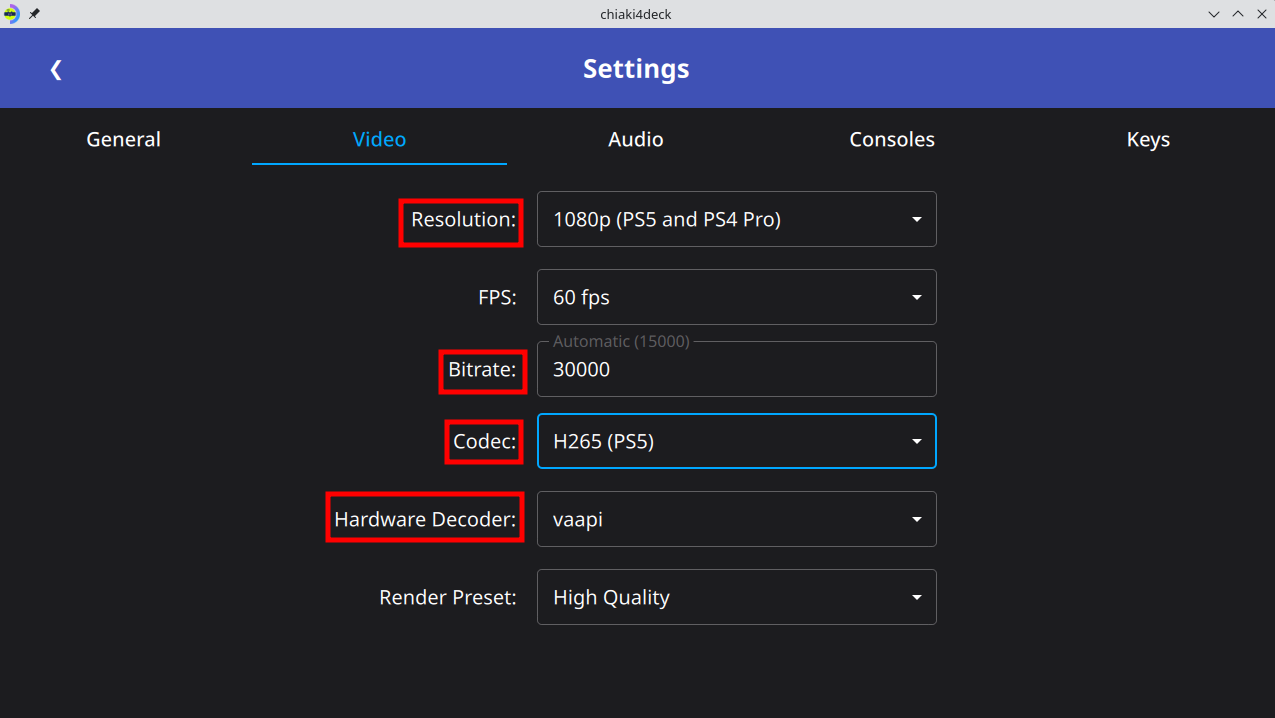
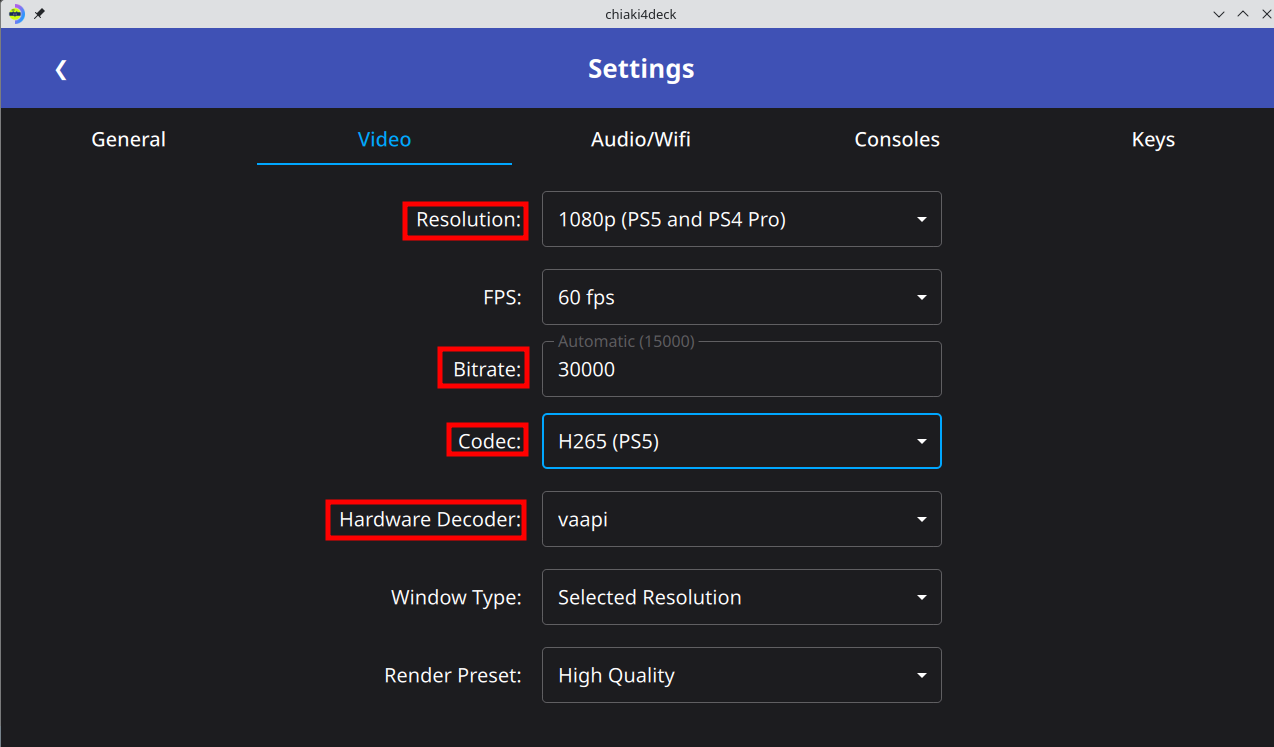
Update for release 1.6.4

diff --git a/docs/setup/steaming.md b/docs/setup/steaming.md
@@ -1,150 +1,177 @@
 # Adding Chiaki4Deck to Steam
 
-!!! Info "Another Non-Steam Game"
+=== "Automatic Process for Auto-connect or Standard Launch"
 
-    This is the same process as with other non-Steam games, tailored to the `chiaki4deck` script and images.
+    1. Choose `Add Create Steam Shortcut from Main Menu`
 
-1. Open the `Add a Non-Steam Game` prompt
+        ![Choose Create Steam Shortcut](images/AddSteamShortcut.png)
 
-    === "Via user interface / application (GUI)"
+    2. Fill in name for Steam Shortcut and optional launch options
+
+        1. Fill in name for Steam Shortcut and optional launch options
     
-        1. Launch Steam by double clicking on the Steam icon in your desktop or finding it in your apps menu.
+            !!! Note "Launch Options"
+                In most cases, you can leave this blank. One scenario where you would fill this out is if you have multiple users on the same Steam Deck. In this case you can use `--profile user1` for one shortcut and `--profile user2` for another.
 
-            ![Launch Steam](images/GoToSteam.png)
+        2. Create Steam Shortcut by hitting `Create` button
 
-        2. Click `Add a Non-Steam Game` from the Games Menu on the top left of the Steam UI
+        ![Fill in Steam Shortcut](images/SteamShortcutMenu.png)
 
-            ![Add non steam game GUI](images/AddNonSteamGameGui.png)
+    !!! Success ":video_game: Game (Mode) Time!"
 
-    === "Via `konsole`"
-
-        1. Run the following command in a `konsole` window to bring up the `Add Non-Steam Game` prompt
-
-        ``` bash
-        steam steam://AddNonSteamGame
-        ```
-
-2. Choose to `BROWSE` for the game
-
-    ![Browse Games](images/ChooseBrowse.png)
-
-3. Show hidden files using the GUI or ++ctrl+h++ (to see the hidden `.` directories)
-
-    ![Show Hidden Files](images/ShowHiddenFiles.png)
-
-4. Choose `Chiaki-launcher.sh` as your game
-
-    !!! Tip "If You're missing `Chiaki-launcher.sh`, You Skipped the Automation Section"
-
-        `Chiaki-launcher.sh` is a script to launch Chiaki without the main gui, resulting in a much better experience on the Steam Deck ([click for details](../updates/done.md#enabled-automated-launch){target="_blank" rel="noopener"}) and makes it [easier to use the 3 games modes](../updates/done.md#3-view-modes-for-non-standard-screen-sizes){target="_blank" rel="noopener"}. If `Chiaki-launcher.sh` is missing, you almost certainly skipped the automation section. Don't worry, the fix is easy! :relaxed: Please complete the [Automation section](automation.md){target="_blank" rel="noopener"} now and come back here afterward. It should take you ~ 5 minutes. Luckily, :four_leaf_clover: there is a helper script that does most of the work for you! You simply answer a few questions I walk you through.
-
-    1. Choose `File type: All Files` at the bottom of the screen
-
-    2. Choose `/home/deck` from the dropdown at the top of the screen and then navigate by clicking on each folder to the folder `/home/deck/.var/app/io.github.streetpea.Chiaki4deck/config/Chiaki`
-
-    3. Click on the `Chiaki-launcher.sh` file in that directory
-
-    4. Click `OPEN` on the bottom right 
-
-    ![Chiaki Launcher Select](images/SelectChiakiLauncher.png)
-
-5. Click `Add Selected Programs`
-
-    ![Add Selected Program](images/AddChiakiLauncher.png)
-
-
-## Configuring Name and Game Icons
-
-!!! Warning "Steam Application Name Matters!"
-
-    For Non-Steam games (i.e., `chiaki4deck`), the `Community Layouts` controller layouts are based on the name the user set for the game in Steam when they exported it. Thus, in order to find the controller profiles I created for the game in your `Community Layouts` section later in this guide, your game name will need to the same as mine, (i.e., `chiaki4deck`). This naming is done in step 4 (below) and it's recommended that you just keep your game name as `chiaki4deck` to make your life easier.
-
-    !!! Question "What if naming `chiaki4deck` something else fills me with determination...?"
-
-        If you want to use a different game name (i.e., `Playstation Launcher Thingamajig`) and want to use some or all of the controller layouts I have created (either directly or to download them and use them as a starting point to tinker from), name your game what you want in step 4. Then, when you get to the controller section, follow [Retrieving chiaki4deck Controller Layouts when Using An Alternate Game Name](controlling.md#retrieving-chiaki4deck-controller-layouts-when-using-an-alternate-game-name-most-users-can-skip-this){target="_blank" rel="noopener"}. This walks you through temporarily renaming the app to `chiaki4deck` to access the controller layouts and save them as `Personal Save`s to access in the `Your Layouts` tab. Finally, you can rename you game to what you want and apply your layout to this differently named Steam game.
-
-1. Acquire pictures to use for the game library in Steam
-
-    1. Get the images I used [here](https://github.com/streetpea/chiaki4deck/releases/download/v1.0.0/chiaki4deckImages.tar.xz){target="_blank" rel="noopener"} for `chiaki4deck` on my Steam Deck.
-
-    2. Extract the package to a folder of your choice (such as your `Documents` folder).
-    
-        !!! Question "How do I extract the images folder?"
+        You have successfully added `chiaki4deck` to Steam with pictures and (if on Steam Deck) set the `chiaki4deck+ mic` Steam Deck controller shortcut. :fireworks:
         
-            Double click on the downloaded package in your browser or find the file in your `Downloads` folder and right-click on it choosing to `Extract To` and then selecting the folder of your choice (such as your `Documents` Folder)
+        You can now close any open applications and or terminals (forcing them to close if necessary) and then switch to **Game Mode** by clicking on the `Return to Gaming Mode` desktop icon.
 
-            ![Extract Images](images/extract_images.png)
+        ![Go to Game Mode](images/ReturnToGamingMode.png)
 
-        !!! note
+=== "Manual Process for Automation Script"
+
+    !!! Info "Another Non-Steam Game"
+
+        This is the same process as with other non-Steam games, tailored to the `chiaki4deck` script and images.
+
+    1. Open the `Add a Non-Steam Game` prompt
+
+        === "Via user interface / application (GUI)"
+        
+            1. Launch Steam by double clicking on the Steam icon in your desktop or finding it in your apps menu.
+
+                ![Launch Steam](images/GoToSteam.png)
+
+            2. Click `Add a Non-Steam Game` from the Games Menu on the top left of the Steam UI
+
+                ![Add non steam game GUI](images/AddNonSteamGameGui.png)
+
+        === "Via `konsole`"
+
+            1. Run the following command in a `konsole` window to bring up the `Add Non-Steam Game` prompt
+
+            ``` bash
+            steam steam://AddNonSteamGame
+            ```
+
+    2. Choose to `BROWSE` for the game
+
+        ![Browse Games](images/ChooseBrowse.png)
+
+    3. Show hidden files using the GUI or ++ctrl+h++ (to see the hidden `.` directories)
+
+        ![Show Hidden Files](images/ShowHiddenFiles.png)
+
+    4. Choose `Chiaki-launcher.sh` as your game
+
+        !!! Tip "If You're missing `Chiaki-launcher.sh`, You Skipped the Automation Section"
+
+            `Chiaki-launcher.sh` is a script to launch Chiaki without the main gui, resulting in a much better experience on the Steam Deck ([click for details](../updates/done.md#enabled-automated-launch){target="_blank" rel="noopener"}) and makes it [easier to use the 3 games modes](../updates/done.md#3-view-modes-for-non-standard-screen-sizes){target="_blank" rel="noopener"}. If `Chiaki-launcher.sh` is missing, you almost certainly skipped the automation section. Don't worry, the fix is easy! :relaxed: Please complete the [Automation section](automation.md){target="_blank" rel="noopener"} now and come back here afterward. It should take you ~ 5 minutes. Luckily, :four_leaf_clover: there is a helper script that does most of the work for you! You simply answer a few questions I walk you through.
+
+        1. Choose `File type: All Files` at the bottom of the screen
+
+        2. Choose `/home/deck` from the dropdown at the top of the screen and then navigate by clicking on each folder to the folder `/home/deck/.var/app/io.github.streetpea.Chiaki4deck/config/Chiaki`
+
+        3. Click on the `Chiaki-launcher.sh` file in that directory
+
+        4. Click `OPEN` on the bottom right 
+
+        ![Chiaki Launcher Select](images/SelectChiakiLauncher.png)
+
+    5. Click `Add Selected Programs`
+
+        ![Add Selected Program](images/AddChiakiLauncher.png)
+
+
+    ## Configuring Name and Game Icons
+
+    !!! Warning "Steam Application Name Matters!"
+
+        For Non-Steam games (i.e., `chiaki4deck`), the `Community Layouts` controller layouts are based on the name the user set for the game in Steam when they exported it. Thus, in order to find the controller profiles I created for the game in your `Community Layouts` section later in this guide, your game name will need to the same as mine, (i.e., `chiaki4deck`). This naming is done in step 4 (below) and it's recommended that you just keep your game name as `chiaki4deck` to make your life easier.
+
+        !!! Question "What if naming `chiaki4deck` something else fills me with determination...?"
+
+            If you want to use a different game name (i.e., `Playstation Launcher Thingamajig`) and want to use some or all of the controller layouts I have created (either directly or to download them and use them as a starting point to tinker from), name your game what you want in step 4. Then, when you get to the controller section, follow [Retrieving chiaki4deck Controller Layouts when Using An Alternate Game Name](controlling.md#retrieving-chiaki4deck-controller-layouts-when-using-an-alternate-game-name-most-users-can-skip-this){target="_blank" rel="noopener"}. This walks you through temporarily renaming the app to `chiaki4deck` to access the controller layouts and save them as `Personal Save`s to access in the `Your Layouts` tab. Finally, you can rename you game to what you want and apply your layout to this differently named Steam game.
+
+    1. Acquire pictures to use for the game library in Steam
+
+        1. Get the images I used [here](https://github.com/streetpea/chiaki4deck/releases/download/v1.0.0/chiaki4deckImages.tar.xz){target="_blank" rel="noopener"} for `chiaki4deck` on my Steam Deck.
+
+        2. Extract the package to a folder of your choice (such as your `Documents` folder).
+        
+            !!! Question "How do I extract the images folder?"
             
-            This will create a folder named `chiaki4deckImages` in the folder you choose to extract to
+                Double click on the downloaded package in your browser or find the file in your `Downloads` folder and right-click on it choosing to `Extract To` and then selecting the folder of your choice (such as your `Documents` Folder)
 
-    !!! Note "SteamGridDB"
-    
-        The images I provided are from Steam Grid DB and I do not own these images, I'm simply directing you to them for your convenience. You can find these and other images yourself on [SteamGridDB](https://www.steamgriddb.com/search/grids?term=chiaki+remote+play){target="_blank" rel="noopener"} as well as via other sources of your choosing.
+                ![Extract Images](images/extract_images.png)
 
-2. If it is not already open, launch Steam and go to your game `Library`.
+            !!! note
+                
+                This will create a folder named `chiaki4deckImages` in the folder you choose to extract to
 
-3. Right-click on `Chiaki-launcher.sh` in your `Games` on the left-hand side and select `Properties`
+        !!! Note "SteamGridDB"
+        
+            The images I provided are from Steam Grid DB and I do not own these images, I'm simply directing you to them for your convenience. You can find these and other images yourself on [SteamGridDB](https://www.steamgriddb.com/search/grids?term=chiaki+remote+play){target="_blank" rel="noopener"} as well as via other sources of your choosing.
 
-    ![Chiaki Launcher Properties](images/ChiakiLauncherProperties.png)
+    2. If it is not already open, launch Steam and go to your game `Library`.
 
-4. In the properties window that comes up rename `Chiaki-launcher.sh` and add the icon image
+    3. Right-click on `Chiaki-launcher.sh` in your `Games` on the left-hand side and select `Properties`
 
-    1. Rename it `chiaki4deck`
+        ![Chiaki Launcher Properties](images/ChiakiLauncherProperties.png)
 
-    2. Click on the blank square to add an image and navigate to the `chiaki4deckImages` folder you created in step 1 above and select the icon image (`icon-chiaki4deck.png`).
+    4. In the properties window that comes up rename `Chiaki-launcher.sh` and add the icon image
 
-    3. Click the x to exit the window
+        1. Rename it `chiaki4deck`
 
-    ???+ example "Finished chiaki4deck Properties"
+        2. Click on the blank square to add an image and navigate to the `chiaki4deckImages` folder you created in step 1 above and select the icon image (`icon-chiaki4deck.png`).
 
-        ![Finished Chiaki4Deck Properties](images/FinishedChiaki4DeckProperties.png)
+        3. Click the x to exit the window
 
-5. Go to your `Library` in Steam and select `chiaki4deck` from the left-hand list or one of the `Library` categories to go to `chiaki4deck`'s game page.
+        ???+ example "Finished chiaki4deck Properties"
 
-6. Customize the background and logo for Chiaki4deck
+            ![Finished Chiaki4Deck Properties](images/FinishedChiaki4DeckProperties.png)
 
-    ![Set Background and Logo](images/SetBackgroundLogo.png)
+    5. Go to your `Library` in Steam and select `chiaki4deck` from the left-hand list or one of the `Library` categories to go to `chiaki4deck`'s game page.
 
-    1. Customize the background
-    
-        1. Right-click on the blank space and select `Set Custom Background`
+    6. Customize the background and logo for Chiaki4deck
 
-        2. Browse to the `chiaki4deckImages` folder you created earlier and select the background image (`background-chiaki4deck.png`)
+        ![Set Background and Logo](images/SetBackgroundLogo.png)
 
-    2. Customize the logo
+        1. Customize the background
+        
+            1. Right-click on the blank space and select `Set Custom Background`
 
-        1. Right-click on the blank space and select `Set Custom Logo`
+            2. Browse to the `chiaki4deckImages` folder you created earlier and select the background image (`background-chiaki4deck.png`)
 
-        2. Browse to the `chiaki4deckImages` folder you created earlier and select the logo image (`logo-chiaki4deck.png`)
+        2. Customize the logo
 
-    ???+ example "Finished chiaki4deck Home Page"
+            1. Right-click on the blank space and select `Set Custom Logo`
 
-        ![Finished Background and Logo](images/FinishedBackgroundLogo.png)
+            2. Browse to the `chiaki4deckImages` folder you created earlier and select the logo image (`logo-chiaki4deck.png`)
 
-7. Customize the wide capsule and capsule images
+        ???+ example "Finished chiaki4deck Home Page"
 
-    1. Launch `chiaki4deck` via Steam by hitting the `Play` button or any other method and then close.
-    
-    2. Go to your `Library` in Steam and scroll to your `RECENT GAMES` section.
+            ![Finished Background and Logo](images/FinishedBackgroundLogo.png)
 
-    3. Right-click on the blank picture for `chiaki4deck` (should be 1st in `RECENT GAMES` and have a blank image with a landscape orientation) and select `Manage->Set custom artwork`
+    7. Customize the wide capsule and capsule images
 
-        ![Custom W Cap](images/SetCustomWCap.png)
+        1. Launch `chiaki4deck` via Steam by hitting the `Play` button or any other method and then close.
+        
+        2. Go to your `Library` in Steam and scroll to your `RECENT GAMES` section.
 
-    4. Browse to the `chiaki4deckImages` folder you created earlier and select the wide capsule (wcap) image (`wcap-chiaki4deck.png`)
+        3. Right-click on the blank picture for `chiaki4deck` (should be 1st in `RECENT GAMES` and have a blank image with a landscape orientation) and select `Manage->Set custom artwork`
 
-    5. Launch a different game and close it (this moves `chiaki4deck` into the second slot in recent games)
+            ![Custom W Cap](images/SetCustomWCap.png)
 
-    6. Right-click on the blank picture for `chiaki4deck` (should be 2nd in recent games and have a blank image with a portrait orientation) and select `Manage->Set custom artwork`. 
+        4. Browse to the `chiaki4deckImages` folder you created earlier and select the wide capsule (wcap) image (`wcap-chiaki4deck.png`)
 
-    7. Browse to the `chiaki4deckImages` folder you created earlier and select the capsule (cap) image (`cap-chiaki4deck.png`)
+        5. Launch a different game and close it (this moves `chiaki4deck` into the second slot in recent games)
 
-!!! Success ":video_game: Game (Mode) Time!"
+        6. Right-click on the blank picture for `chiaki4deck` (should be 2nd in recent games and have a blank image with a portrait orientation) and select `Manage->Set custom artwork`. 
 
-    You have successfully added `chiaki4deck` to Steam with pictures. :fireworks:
-    
-    You can now close any open applications and or terminals (forcing them to close if necessary) and then switch to **Game Mode** by clicking on the `Return to Gaming Mode` desktop icon.
+        7. Browse to the `chiaki4deckImages` folder you created earlier and select the capsule (cap) image (`cap-chiaki4deck.png`)
 
-    ![Go to Game Mode](images/ReturnToGamingMode.png)
+    !!! Success ":video_game: Game (Mode) Time!"
+
+        You have successfully added `chiaki4deck` to Steam with pictures. :fireworks:
+        
+        You can now close any open applications and or terminals (forcing them to close if necessary) and then switch to **Game Mode** by clicking on the `Return to Gaming Mode` desktop icon.
+
+        ![Go to Game Mode](images/ReturnToGamingMode.png)

diff --git a/docs/setup/configuration.md b/docs/setup/configuration.md
@@ -283,9 +283,9 @@ Here are different settings you can use for Chiaki/`chiaki4deck` depending on yo
             
             If you prefer, you can also use `Enter Sleep Mode` to automatically put your PlayStation console to sleep as soon as you close your session with ++ctrl+q++
 
-    2. **Audio Settings** for Steam Deck
+    2. **Audio/WiFi Settings** for Steam Deck
 
-        ![Audio Settings](images/AudioSettings.png)
+        ![Audio/Wifi Settings](images/AudioSettings.png)
     
     3. Below are the **Video Settings** you'll want to try first with your PlayStation console (choose the **PS5/1080p HDR** tab if you have a PS5 connected to a HDR TV/monitor ([see HDR section below for more details](#hdr-high-dynamic-range)), **PS5/1080p** if you have a PS5 not connected to an HDR TV/monitor, and **PS4/720p** if you have a PS4). If you are having issues with your PS5 connection, please try the **PS4/720p** settings with your PS5 since they require significantly less bandwidth from your wireless router.
 
@@ -338,6 +338,12 @@ HDR is now supported when you select the `H265 HDR (PS5 only)` codec option. For
     You can adjust the PS5 HDR settings for optimal viewing on the Steam Deck via the system-wide PS5 settings (need to be connected directly to your PS5 and not via remote play to access this menu) by going to `Settings -> Screen and Video -> Video Output -> Adjust HDR`. You'll want to do this if your display brightness (i.e., nits) is different from the Steam Deck OLED's 1000 nits. According to the folks over at HDTVTest (via [arshiatn](https://github.com/arshiatn){target="_blank" rel="noopener"}) for an 1000 nits display you want to use 15-15-0 for the HDR settings. To set this in the `Adjust HDR set` move 15 steps (15 presses of the right key on the dpad of the PlayStation controller) for the first test screen, 15 steps from the beginning for the 2nd test screen and 0 steps from the beginning on the last test screen. 
     
     Please note that this will also affect the settings for your connected display so if you are switching between remote play and TV play often keep that in mind. Certain games also have their own HDR settings you can adjust while remote playing in their respective game menus or when beginning the game.
+
+### Auto Connect
+
+If you have one console you want to connect to remotely or locally you can use the auto-connect feature to launch it automatically on launch. If you have multiple consoles to launch into you can instead use the [automation section](automation.md).
+
+![Auto-Connect Settings](images/AutoConnect.png)
 
 ## Performance of Chiaki/`chiaki4deck`
 

diff --git a/docs/setup/automation.md b/docs/setup/automation.md
@@ -1,11 +1,8 @@
 # Automating `chiaki4deck` Launch
 
-Now that you have `chiaki4deck` configured, it's time to make it wake up your PlayStation and connect to it automatically. 
+!!!Tip "Use the Auto Connect Feature Instead if it Meets Your Needs"
 
-!!! Info "So Why Should I Care?"
-
-    This is especially convenient for the Steam Deck's `Game Mode` where an automated launch eliminates both the need to tap furiously at your touchscreen to launch the application and the glitches that would arise (flashes on your screen) when it would switch between the 2 open Chiaki windows (since only 1 window is opened with the automated launch). It also gives a default game mode option to launch in fullscreen, stretch or zoomed mode, making it [easier to use the 3 games modes](../updates/done.md#3-view-modes-for-non-standard-screen-sizes){target="_blank" rel="noopener"}. Finally, it allows for passing your login passcode automatically instead of manually typing in each time (for those of you with a login passcode set on your PlayStation console).
-
+    Now that you have `chiaki4deck` configured, it's time to make it wake up your PlayStation and connect to it automatically. Note: If you only have 1 console please try the [autoconnect feature](configuration.md#auto-connect). Otherwise, proceed with this guide to setup a script to automatically launch your different systems.
 
 !!! Warning "Sleep Mode Required"
 

diff --git a/docs/updates/releases.md b/docs/updates/releases.md
@@ -61,6 +61,16 @@ In order to update your already installed `chiaki4deck` to the newest version, e
 
 ## Releases (Newest First)
 
+### 1.6.4
+
+Enables creating steam shortcut with default controller profile from menu
+
+- Adds create Steam Shortcut option for Linux and Mac
+- Allow setting console pin for console in settings
+- Add window type option in settings (fullscreen, stretch, zoom)
+- Fix issue causing extra blank ip manual console added when registering non-manual console
+- Add option to adjust when Wifi connection symbol appears based on % of dropped packets in 200ms interval
+
 ### 1.6.3
 
 Small patch release

diff --git a/docs/setup/controlling.md b/docs/setup/controlling.md
@@ -1,5 +1,8 @@
 # Configuring Steam Deck Controller Profile
 
+!!! Tip
+    If you created the Steam Shortcut through the menu, it automatically adds the correct chiaki4deck+ mic controller profile for you on Steam Deck.
+
 Get all of the shortcuts mapped to Steam Deck controls. Start by going to the `chiaki4deck` game menu and selecting the controller layout to configure controller options.
 
 === "Game Mode"
